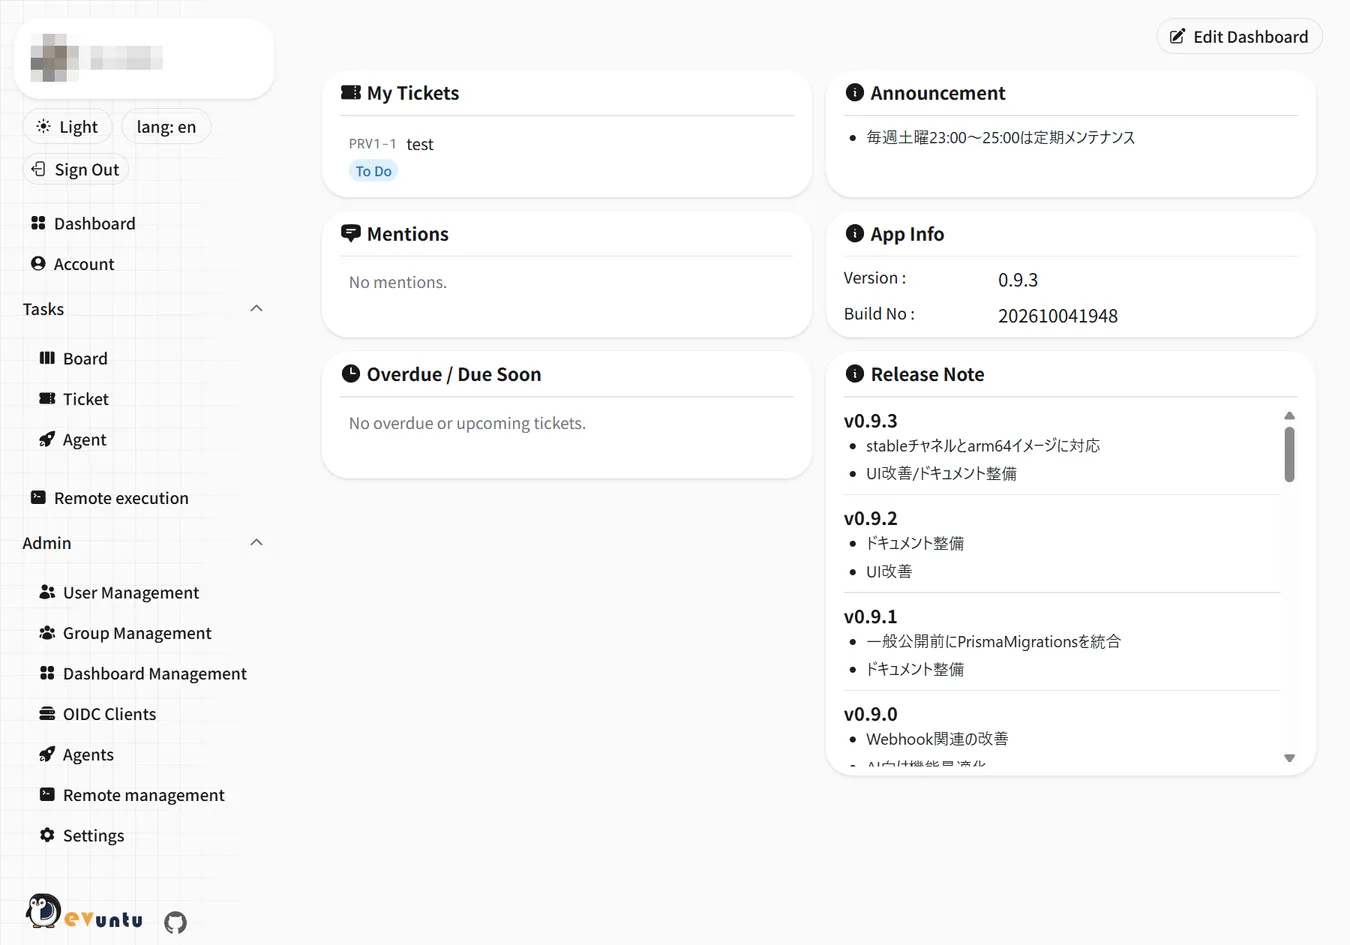
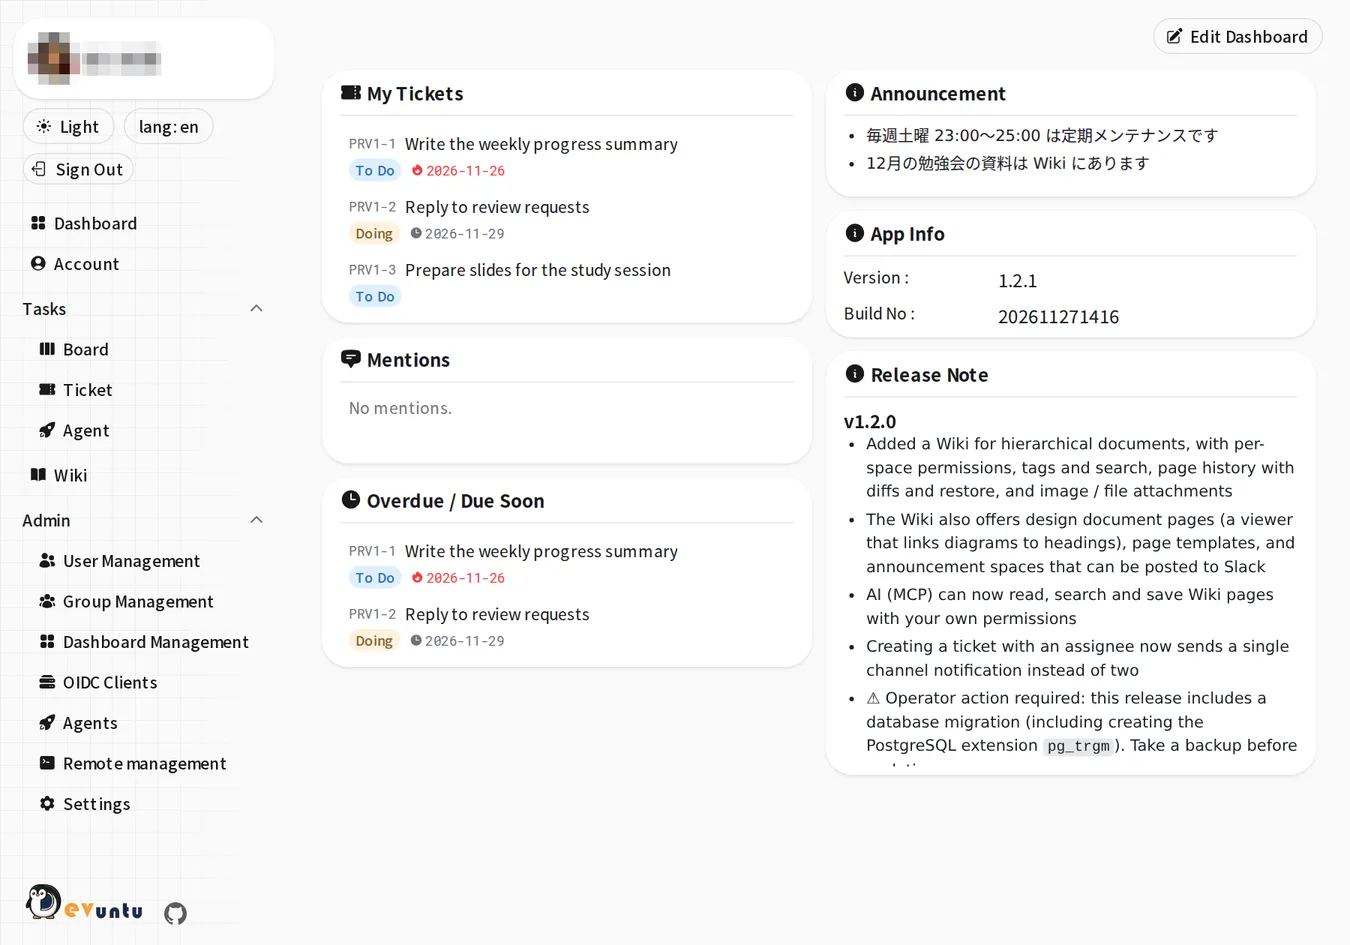
ドキュメントと紹介サイトのスクリーンショットを撮り直し、Wiki の画像を追加 (DEVUNTU-296)

diff --git a/site/en/index.html b/site/en/index.html
@@ -199,6 +199,20 @@
             <figcaption>Kanban board (Japanese UI)</figcaption>
           </figure>
           <figure>
+            <img
+              src="../images/ticket.webp"
+              alt="Ticket details with acceptance criteria"
+              width="1350"
+              height="945"
+              loading="lazy"
+            />
+            <figcaption>Ticket details with acceptance criteria (Japanese UI)</figcaption>
+          </figure>
+          <figure>
+            <img src="../images/wiki.webp" alt="Wiki design document page" width="1350" height="945" loading="lazy" />
+            <figcaption>Wiki design document page (Japanese UI)</figcaption>
+          </figure>
+          <figure>
             <img src="../images/ticket-plan.webp" alt="A plan posted by AI" width="1350" height="945" loading="lazy" />
             <figcaption>A plan posted by AI (Japanese UI)</figcaption>
           </figure>

diff --git a/site/index.html b/site/index.html
@@ -185,6 +185,14 @@
             <figcaption>かんばんボード</figcaption>
           </figure>
           <figure>
+            <img src="images/ticket.webp" alt="チケット詳細(受け入れ条件)" width="1350" height="945" loading="lazy" />
+            <figcaption>チケット詳細(受け入れ条件)</figcaption>
+          </figure>
+          <figure>
+            <img src="images/wiki.webp" alt="Wiki(設計書ページ)" width="1350" height="945" loading="lazy" />
+            <figcaption>Wiki(設計書ページ)</figcaption>
+          </figure>
+          <figure>
             <img src="images/ticket-plan.webp" alt="AI が投稿したプラン" width="1350" height="945" loading="lazy" />
             <figcaption>AI が投稿したプラン</figcaption>
           </figure>

diff --git a/docs/dev/development.md b/docs/dev/development.md
@@ -479,6 +479,8 @@ pnpm why sharp
   ページからは `images/<名前>.webp`(英語ページは `../images/<名前>.webp`)で参照する。
   デプロイ時は実体化して配信され、`docs/images/` の変更でも再デプロイされる。
   `docs/images/` の画像の名前を変えたり削除したりするときは、日英両方のページの参照も直す
+- スクリーンショットは、画面幅 1200×840・倍率 1.5 で撮った 1800×1260 の PNG を、1350×945 の WebP に縮小して置く。
+  テーマはライト(`dashboard-dark` を除く)、言語は ja(`dashboard-en` を除く)にそろえ、ログインユーザーのアバター・氏名など個人情報はモザイクで隠す
 - 機能一覧は README の「できること」に合わせる。機能を追加・変更したら日英両方のページも更新する
   (リリース時にもスキル `release` で反映漏れを確認する)
 - 「ドキュメント」節のリンクは GitHub 上の `docs/guide/README.md` / `docs/admin/README.md` / `docs/dev/README.md` などを指す。

diff --git a/docs/guide/user-guide.md b/docs/guide/user-guide.md
@@ -369,6 +369,8 @@ Wiki のページも同じ仕組みで出力できる(Markdown も選べる。[W
 ボードとは別に、階層を持つ文書を置く場所。サイドメニューの「Wiki」から開く。
 文書は**スペース**ごとにまとまり、スペースの中にページを親子で並べる(10階層まで)。
 
+![Wiki(設計書ページとツリー)](../images/wiki.webp)
+
 インストール直後(Wiki を含む版へ更新した直後も)には、サンプルのスペース「サンプル」(キー `SAMPLE`)がある。
 Wiki の使い方・Markdown の書き方のページと、[設計書](#設計書ページ)の例(シーケンス図・ER 図・電文定義・状態遷移図)が入っている。
 
